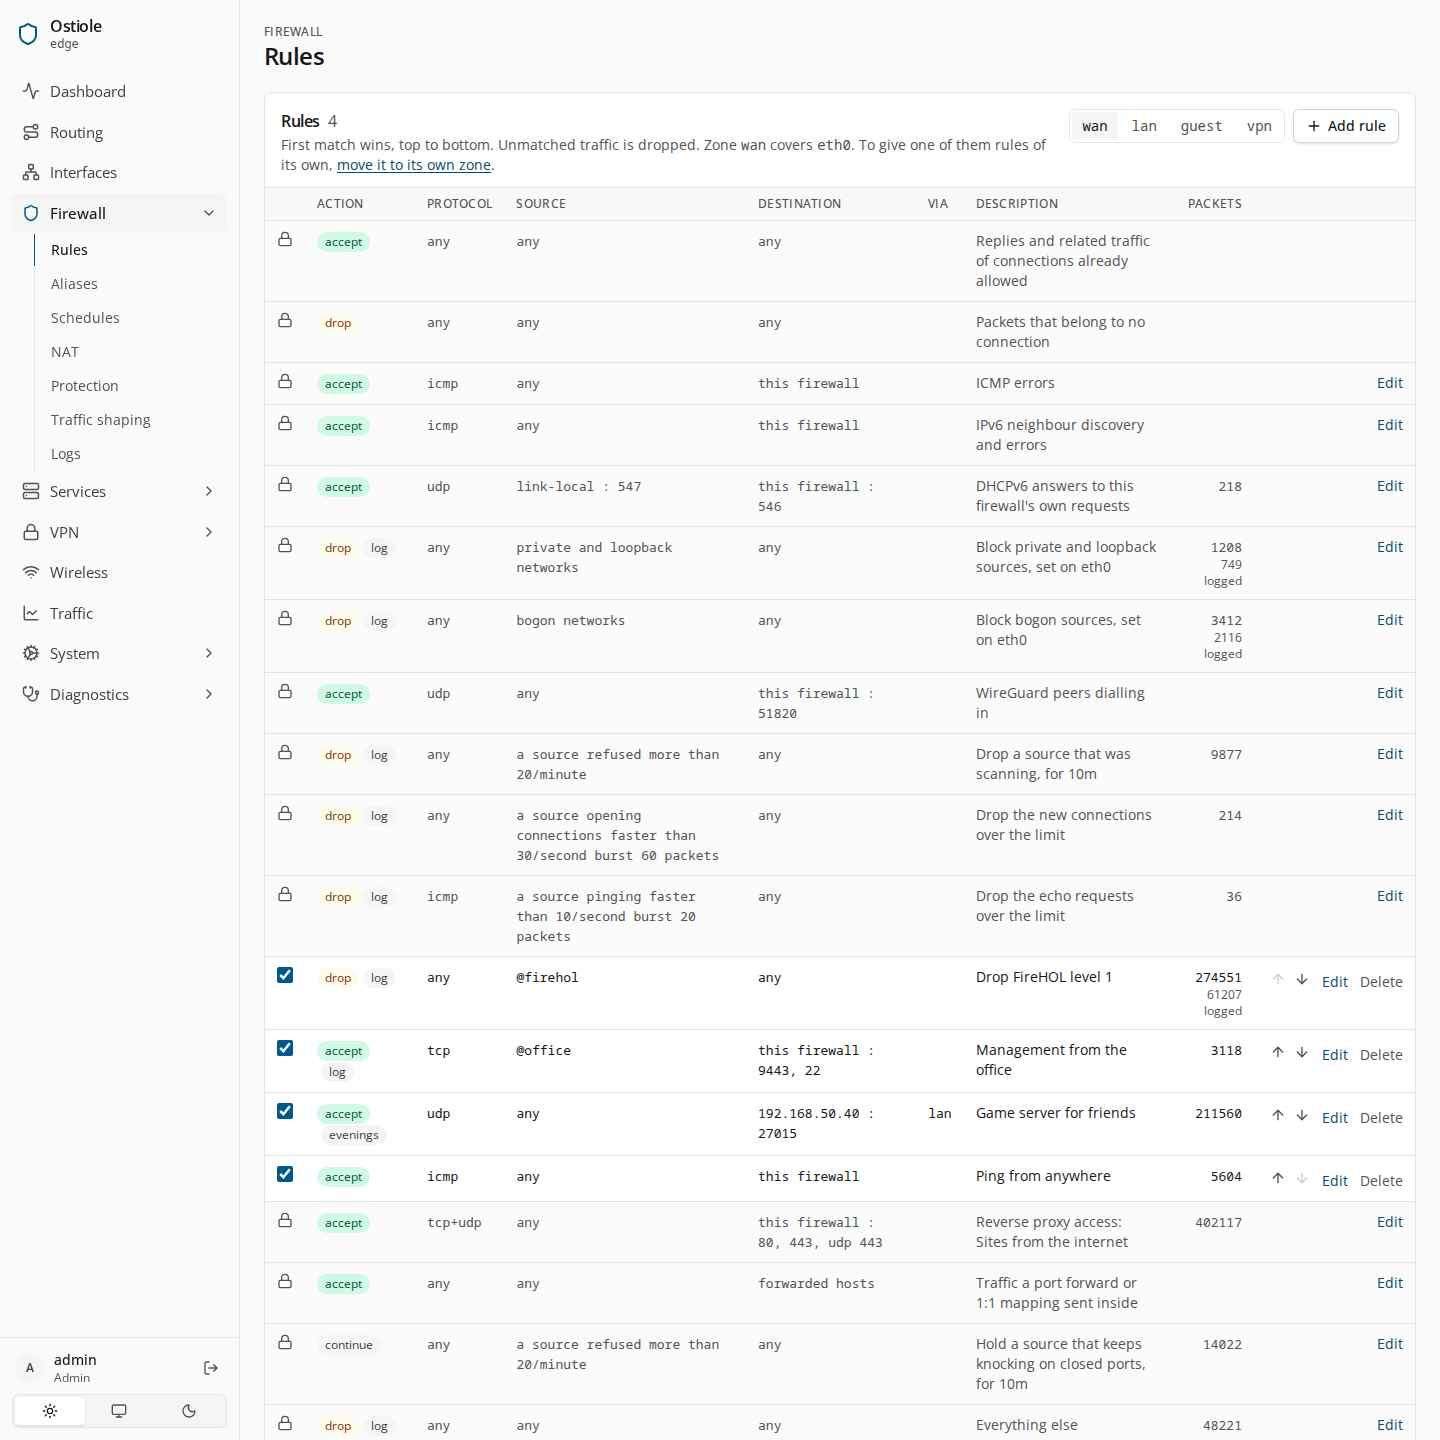
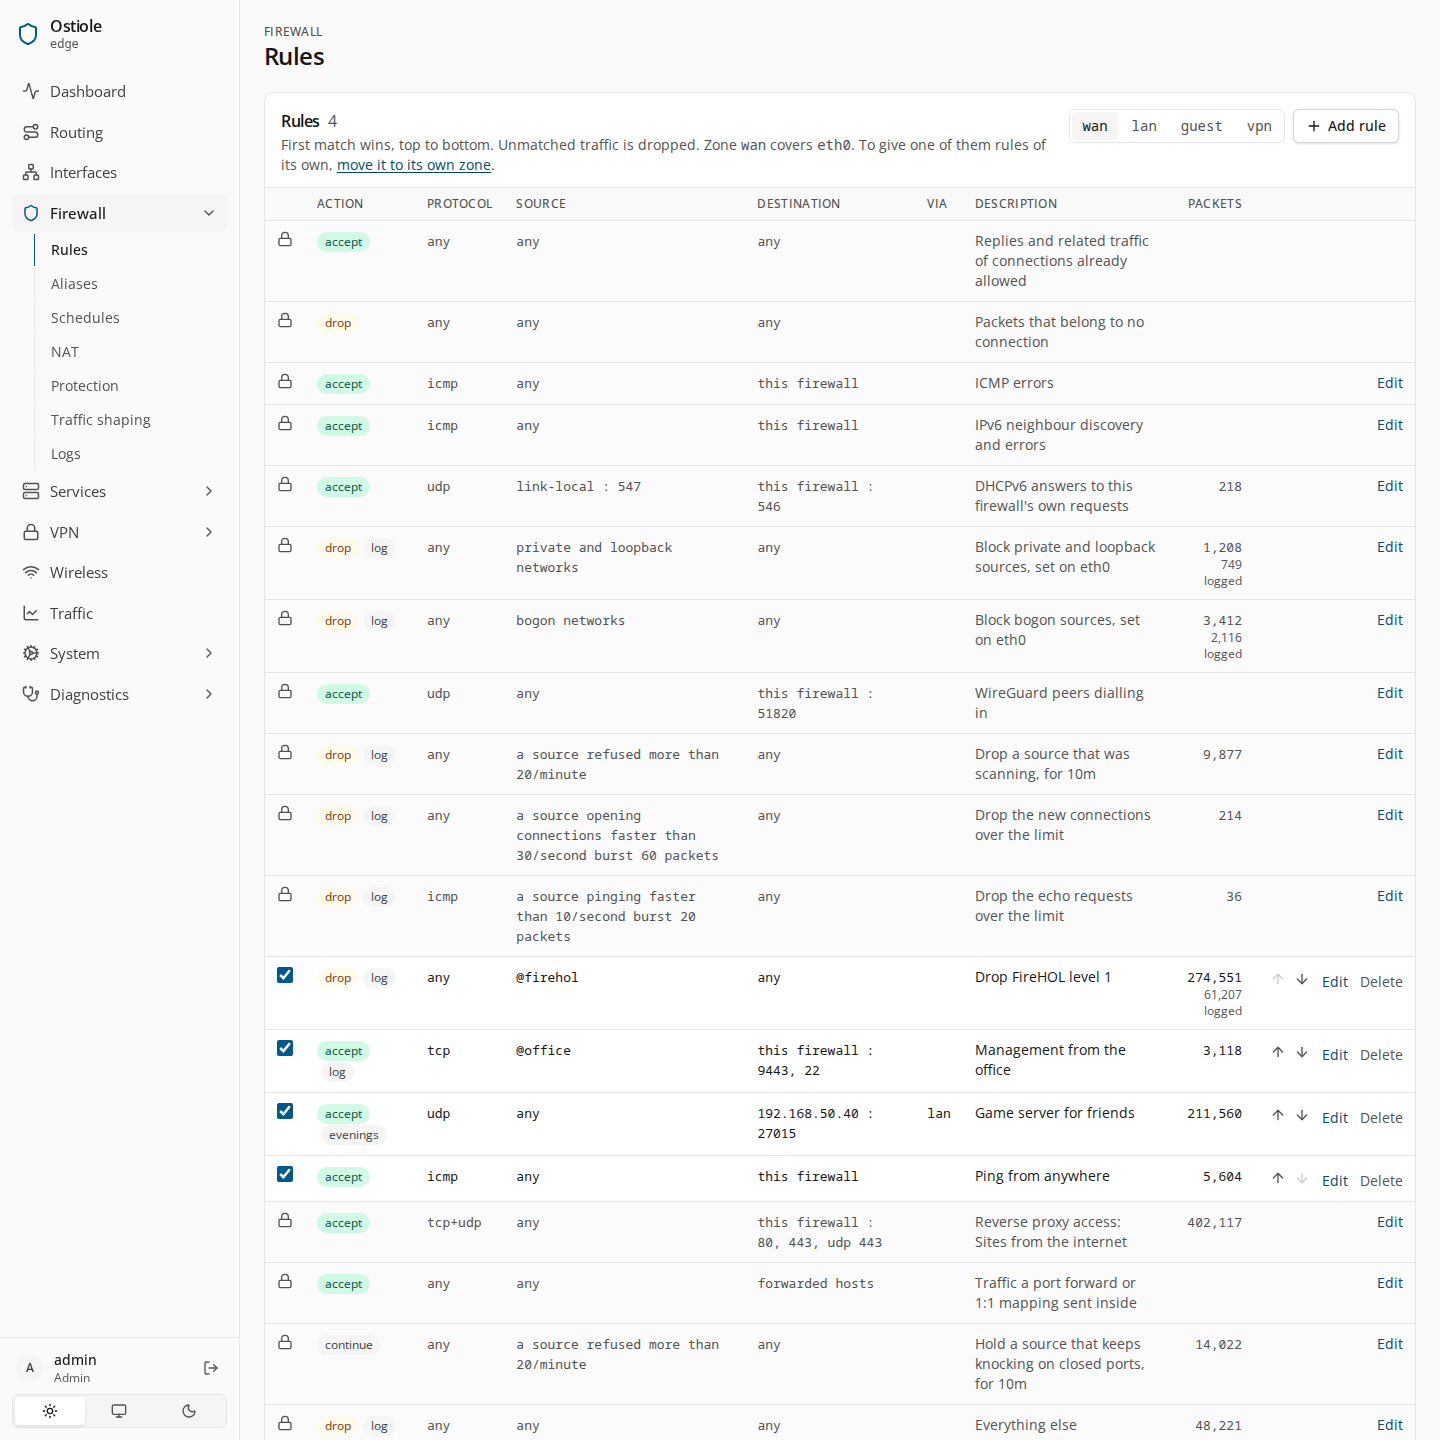
Add phone screenshots

diff --git a/README.md b/README.md
@@ -63,6 +63,12 @@ configuration: systemd-networkd, dnsmasq, unbound, chrony, miniupnpd, pppd and h
 <td width="25%"><a href=".github/screenshots/wireguard.png"><img src=".github/screenshots/wireguard.png" alt="A WireGuard device's file and QR code"></a><br>WireGuard</td>
 <td width="25%"><a href=".github/screenshots/shaping.png"><img src=".github/screenshots/shaping.png" alt="Traffic shaping queues, live"></a><br>Traffic shaping</td>
 </tr>
+<tr>
+<td width="25%"><a href=".github/screenshots/mobile-dashboard.png"><img src=".github/screenshots/mobile-dashboard.png" alt="The dashboard on a phone"></a><br>Dashboard on a phone</td>
+<td width="25%"><a href=".github/screenshots/mobile-navigation.png"><img src=".github/screenshots/mobile-navigation.png" alt="The navigation drawer on a phone"></a><br>Navigation</td>
+<td width="25%"><a href=".github/screenshots/mobile-rules.png"><img src=".github/screenshots/mobile-rules.png" alt="Firewall rules on a phone"></a><br>Rules on a phone</td>
+<td width="25%"><a href=".github/screenshots/mobile-traffic.png"><img src=".github/screenshots/mobile-traffic.png" alt="Traffic charts on a phone"></a><br>Traffic on a phone</td>
+</tr>
 </table>
 
 ## Requirements
